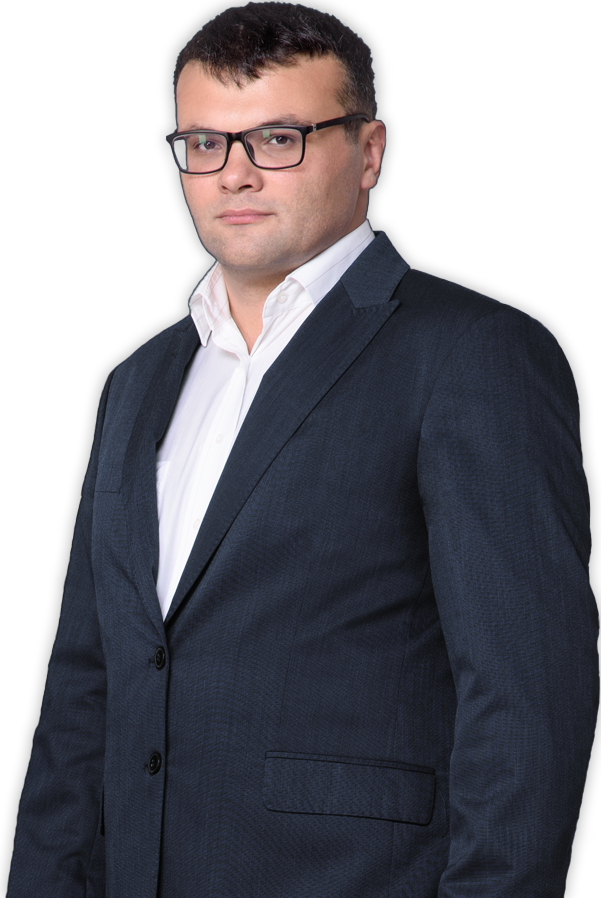
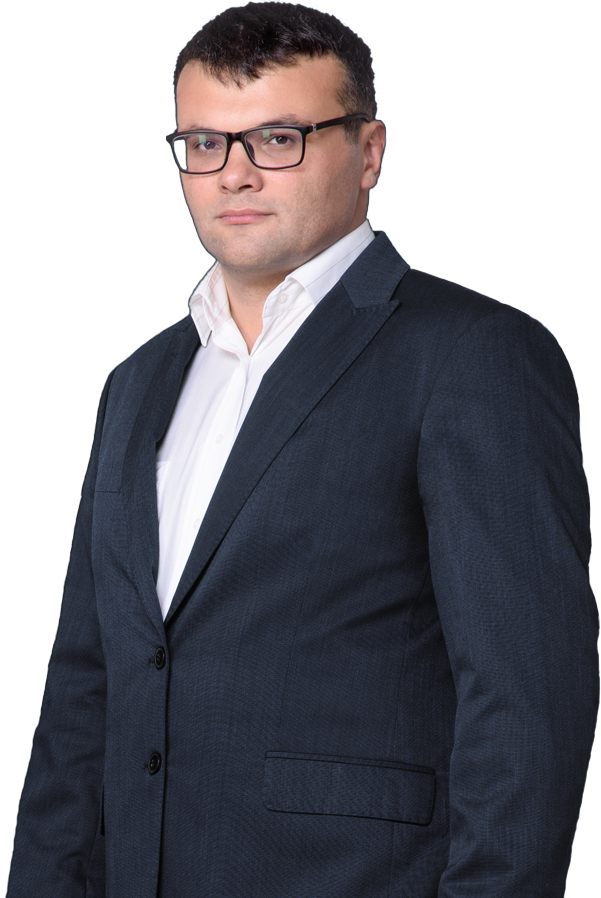
v1.0.0
Оптимізовано картинки, перейменовано та замінено частково новими.
Видалено зайві картинки.
Додано іншу тінь в #About.
Замінено акцентний колір.
Додала назву аккаунта в Футері для Телеграма

diff --git a/public/index.html b/public/index.html
@@ -3,7 +3,7 @@
 
 <head>
     <meta charset="UTF-8" />
-    <meta name="viewport" content="width=device-width, initial-scale=1, maximum-scale=1, user-scalable=no">
+    <meta name="viewport" content="width=device-width, initial-scale=1.0, maximum-scale=1.0, user-scalable=no">
     <meta name="theme-color" content="#282c34" />
     <meta name="description"
         content="Досвідчений адвокат Євтушенко Микола Павлович у Черкасах пропонує юридичні консультації, представництво в суді, допомогу у кримінальних та цивільних справах. Перемога – це результат чіткої стратегії. Довірте свою партію професіоналу." />

diff --git a/src/components/Services.jsx b/src/components/Services.jsx
@@ -1,10 +1,10 @@
 import React from "react";
 import "../styles/Services.scss";
 import "../fontello/css/icons.css";
-import Person from "../images/still-life-documents.jpg";
-import Company from "../images/successful-entrepreneurs-analyzing-perspectives.jpg";
-import Criminal from "../images/young-adult-organizing-documents.jpg";
-import Help from "../images/woman-signing-contract-female-hand-putting-written-signature-document.jpg";
+import Person from "../images/civil-services-dark.jpg";
+import Company from "../images/company-services-dark.jpg";
+import Criminal from "../images/company-services-dark.jpg";
+import Help from "../images/foreign-services-dark.jpg";
 
 const Services = () => (
   <section id="services" className="services container">

diff --git a/src/components/Footer.jsx b/src/components/Footer.jsx
@@ -61,7 +61,7 @@ const Footer = () => (
                 </li>
                 <li>
                   <a
-                    href="https://t.me/username"
+                    href="https://t.me/yevtushenkolawyer"
                     target="_blank"
                     rel="noopener noreferrer"
                   >

diff --git a/src/App.jsx b/src/App.jsx
@@ -1,6 +1,9 @@
 import React, { useState, useEffect } from "react";
+import "normalize.css";
+
 import "./styles/main.scss";
 import "./fontello/css/icons.css";
+
 import Navigation from "./components/Navigation";
 import Header from "./components/Header";
 // import Slogan from "./components/Slogan";

diff --git a/src/components/Header.jsx b/src/components/Header.jsx
@@ -1,7 +1,7 @@
 import React from "react";
 import "../styles/Header.scss";
 // import Signature from "../images/signature.png";
-import Portrait from "../images/portrait-1.png";
+import Portrait from "../images/portrait.webp";
 
 const Header = () => (
   <section className="header__background">

diff --git a/src/styles/_variables.scss b/src/styles/_variables.scss
@@ -1,7 +1,7 @@
 // Основні кольори
 $primary-color: #000000;
 $secondary-color: #447F8D;
-$accent-color: #FFBD4E;
+$accent-color: #edc339;
 $light-color: #ffffff;
 $background-color: #29343E;
 $background-nav: #25282F;

diff --git a/src/styles/About.scss b/src/styles/About.scss
@@ -68,7 +68,7 @@
   &:focus {
     border: 1px solid #FFBD4E;
     transform: scale(1);
-    box-shadow: 10px 10px 15px rgba(0, 0, 0, 0.3);
+    box-shadow: 0px 0px 30px #00000052;
   }
 
   &:hover .image_briefcase,

diff --git a/postcss.config.js b/postcss.config.js
@@ -1,0 +1,7 @@
+module.exports = {
+  plugins: [
+    require('autoprefixer')({
+      overrideBrowserslist: ['>0.2%', 'last 2 versions', 'not dead']
+    })
+  ]
+};
